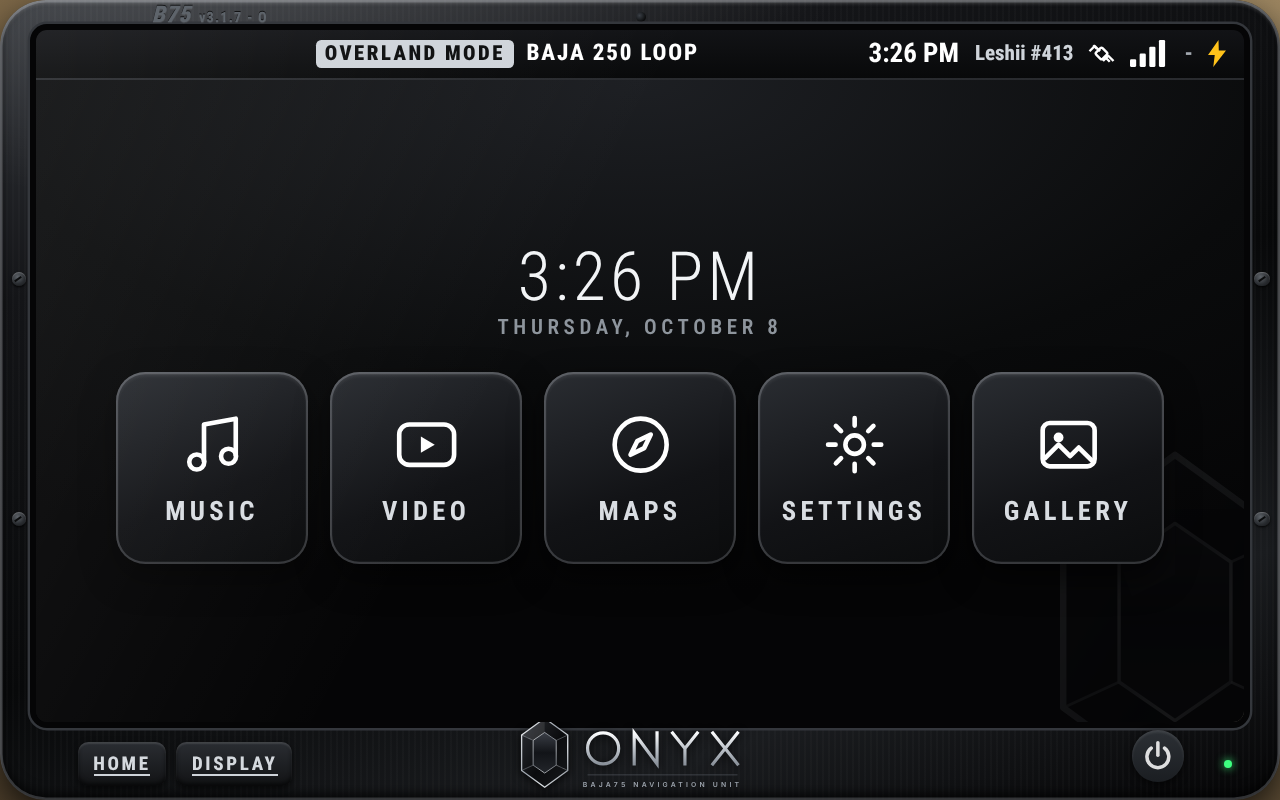
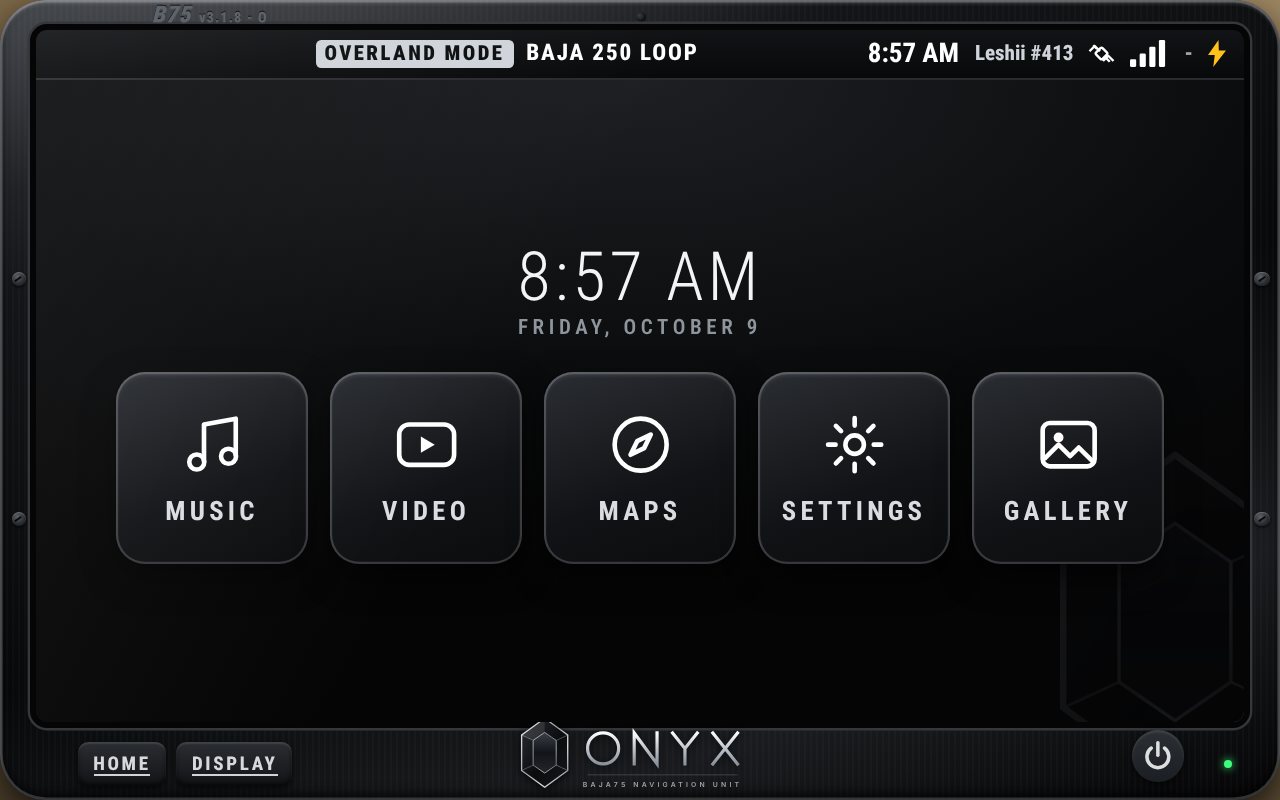
Baja75 Navigation Unit - Onyx Edition v3.1.8
Claude-Session: https://claude.ai/code/session_018ozQf74wNZmob9Gahvuwme

Changed region(s): [[0.4062, 0.3125, 0.5938, 0.4375], [0.6875, 0.0312, 0.75, 0.0938], [0.3438, 0.0625, 0.375, 0.0938]]

diff --git a/ui/modules/apps/Baja75-GPS/app.js b/ui/modules/apps/Baja75-GPS/app.js
@@ -17,7 +17,7 @@
   var APP_DIR = '/ui/modules/apps/Baja75-GPS/';
   var ICON_DIR = APP_DIR + 'Baja75-GPSicons/';
   var EV = 'TreadXLGPS.';
-  var VERSION = '3.1.7';
+  var VERSION = '3.1.8';
   // which build this is: 'full' (all four modes), 'chase', 'rally', 'track' (single-mode editions), 'common' or 'free'; dev/package.py sets it
   var EDITION = 'onyx';
   var EDITION_NAME = { full: '', chase: 'Chase Edition', rally: 'Rally Edition', track: 'Track Edition', common: 'Common Edition', free: 'Free Edition', onyx: 'Onyx Edition' }[EDITION] || '';
@@ -719,12 +719,16 @@
       }).join('') + '</div>',
       ' <button class="txl-pwr" data-act="power" data-tip="Restart System" aria-label="Restart System">' + G.pwr + '</button>',
       ' <div class="txl-led"></div>',
+      ' <div class="txl-bsod"><div class="e-h">BAJA75 NAVIGATION UNIT</div><div class="e-p">A fatal exception has occurred and the navigation system has been halted to prevent damage to your saved courses.</div>' +
+      '<div class="e-p e-code">STOP: 0x000000B7 (0x00000047, 0x4E415653, 0x00000000, 0x00000000)<br>NAV_SYSTEM_INTEGRITY_FAULT</div>' +
+      '<div class="e-p">* Restarting the unit or the game will not clear this error.<br>* If this keeps happening, contact Baja75 on Patreon.</div>' +
+      '<div class="e-p e-dump">Collecting error data\u2026 100% complete</div></div>',
       '</div>'
     ].join('');
     var q = function (sel) { return r.querySelector(sel); };
     this.el = {
       device: q('.txl-device'), screen: q('.txl-screen'), map: q('.txl-map'), hint: q('.txl-maphint'),
-      clock: q('.txl-clock'), mode: q('.txl-modetxt'), icons: q('.txl-icons'), trial: q('.txl-trial'), dead: q('.txl-dead'), nudge: q('.txl-nudge'), home: q('.txl-home'),
+      clock: q('.txl-clock'), mode: q('.txl-modetxt'), icons: q('.txl-icons'), trial: q('.txl-trial'), dead: q('.txl-dead'), bootSub: q('.b-sub'), nudge: q('.txl-nudge'), home: q('.txl-home'),
       deck: q('.txl-deck'), fields: q('.txl-fields'), alert: q('.txl-alert'), speedbox: q('.txl-speedbox'),
       limit: q('.txl-limit'), scale: q('.txl-scale'), orient: q('.orient'), center: q('[data-act="center"]'),
       chaseBtn: q('[data-act="chase"]'), recBtn: q('[data-act="recToggle"]'), toast: q('.txl-toast'), banner: q('.txl-banner'),
@@ -1276,6 +1280,7 @@
     return null;
   };
   P.act = function (a, el) {
+    if (this.root.getAttribute('data-bsod') === '1') return; // the error screen: nothing works
     if (isCommon() && COMMON_OFF[a]) return; // not in the Common Edition (open on a Baja75 server)
     if (isFree() && FREE_OFF[a]) { this.nudge(); return; }
     if (ONYX && ONYX_OFF[a]) return; // not in the Onyx Edition
@@ -2758,6 +2763,7 @@
     this.toast(s.display === 'video' ? 'VIDEO' : s.display === 'music' ? 'MUSIC' : s.display === 'gauges' ? 'GAUGES' : 'MAP', 'info');
   };
   P.hwButton = function (n) {
+    if (this.root.getAttribute('data-bsod') === '1') return;
     var b = this.root.querySelector('.txl-hwb[data-v="' + n + '"]');
     if (b) { b.classList.add('pressed'); setTimeout(function () { b.classList.remove('pressed'); }, 160); }
     if (isFree() && (n === 1 || n === 2)) this.nudge();
@@ -3279,8 +3285,13 @@
   P.licenseChanged = function () {
     var a = this.access || {}, l = a.lic || {}, self = this;
     this.trialEnd = typeof l.cd === 'number' && !a.server ? Date.now() + l.cd * 1000 : null;
+    this.trialLabel = l.trial ? 'Trial Time Remaining' : 'Key Time Remaining'; // v3.1.8: every key with an end shows its countdown
     this.adminEnd = typeof a.admin === 'number' ? Date.now() + a.admin * 1000 : null;
     this.root.setAttribute('data-dead', l.dead && !a.server && !a.admin ? '1' : '0');
+    this.root.setAttribute('data-bsod', l.bsod && !a.server && !a.admin ? '1' : '0'); // (the game script already leaves it off there)
+    if (this.root.getAttribute('data-bsod') === '1') { this.openSheet(null); try { this.videoStop(); } catch (_) { } try { if (this.audio && !this.audio.paused) this.audio.pause(); } catch (_) { } }
+    // the power-on screen: the player's name in place of the edition's word once a named key went in ('LESHII413 EDITION')
+    if (this.el.bootSub && !ONYX) this.el.bootSub.textContent = '10\u2033 OFF-ROAD NAVIGATOR' + (l.name ? ' \u00b7 ' + String(l.name).toUpperCase() + ' EDITION' : EDITION_NAME ? ' \u00b7 ' + EDITION_NAME.toUpperCase() : '');
     clearInterval(this.trialTimer);
     if (this.trialEnd || this.adminEnd) this.trialTimer = setInterval(function () { self.renderTrial(); if (self.sheet === 'menu' && self.menuTab === 'display') self.renderSheet(); }, 1000);
     this.renderTrial();
@@ -3292,7 +3303,7 @@
     if (left == null) { if (el.innerHTML) el.innerHTML = ''; el.classList.remove('show'); return; }
     var d = Math.floor(left / 86400), h = Math.floor(left % 86400 / 3600), m = Math.floor(left % 3600 / 60), sec = left % 60;
     var p2 = function (n) { return (n < 10 ? '0' : '') + n; };
-    this.setHtml('trial', el, '<span>Trial Time Remaining</span><b>' + d + ':' + p2(h) + ':' + p2(m) + ':' + p2(sec) + '</b>');
+    this.setHtml('trial', el, '<span>' + esc(this.trialLabel || 'Trial Time Remaining') + '</span><b>' + d + ':' + p2(h) + ':' + p2(m) + ':' + p2(sec) + '</b>');
     el.classList.add('show');
   };
   // Display: what's unlocked, and the key box
@@ -3309,7 +3320,8 @@
     else if (l.why === 'ended') st = 'Your key\u2019s time has run out: get the next key from Baja75 on Patreon';
     else st = 'Locked off the Baja75 servers' + (COMMON ? '' : ' (the password or a license key unlocks it)');
     return '<div class="txl-sec"><h3>License</h3><div class="txl-row"><div class="grow"><div class="t1">' + esc(st) + '</div><div class="t2">A personal-use unlocking license can be bought from Baja75 on Patreon</div></div>' +
-      (a.password ? btn('relock', 'LOCK') : '') + btn('keyOpen', 'ENTER KEY', 'blue') + '</div></div>';
+      (a.password ? btn('relock', 'LOCK') : '') + btn('keyOpen', 'ENTER KEY', 'blue') + '</div>' +
+      '<div class="txl-note">When your key runs out, contact <b>Baja75 on Patreon</b> for another key, with your proof of purchase, your trial access, or where you found the mod.</div></div>';
   };
   // the Free Edition: a short pop-up that other features need the product key
   P.nudge = function () {

diff --git a/ui/modules/apps/Baja75-GPS/app.css b/ui/modules/apps/Baja75-GPS/app.css
@@ -1016,6 +1016,14 @@
 .txl-dead .d-t { font-size: 2em; font-weight: 900; color: #ff4d42; letter-spacing: 0.06em; text-transform: uppercase; }
 .txl-dead .d-s { font-size: 1.2em; font-weight: 600; color: var(--txl-dim); max-width: 30em; }
 .txl[data-dead="1"] .txl-sheet { z-index: 75; }
+/* v3.1.8: the error screen (covers the whole unit, bezel included; nothing on it can be pressed) */
+.txl-bsod { display: none; position: absolute; inset: 0; z-index: 200; border-radius: inherit; flex-direction: column; justify-content: center; gap: 0.9em; padding: 6% 8%;
+  background: #0a2db0; color: #fff; font-family: "Lucida Console", "Courier New", monospace; font-size: 1.05em; line-height: 1.35; text-align: left; cursor: default; }
+.txl[data-bsod="1"] .txl-bsod { display: flex; }
+.txl[data-bsod="1"] .txl-boot { display: none; }
+.txl-bsod .e-h { align-self: center; background: #c8c8c8; color: #0a2db0; padding: 0 0.5em; font-weight: 700; letter-spacing: 0.04em; }
+.txl-bsod .e-code { font-weight: 700; }
+.txl-bsod .e-dump { opacity: 0.85; }
 
 /* ------------------------------------------------------------------ picture-in-picture (v3.1.2) */
 /* the video full screen, the map small in a corner (tap it: the full map) */

diff --git a/README.md b/README.md
@@ -189,7 +189,7 @@ A third HUD app, **Baja75 Navigation Unit - Pacenotes**, pops up the rally pacen
 
 ## Unlocking and licenses
 
-On a Baja75 or Leshii413 server every edition has every feature. Off the servers, enter a **password or license key** in MENU → Display → *License* (or when a locked part asks). A personal-use unlocking license for your own BeamNG can be bought from **Baja75 on Patreon**. If your license has a time limit, MENU → Display → *License* shows what's left. If the unit ever shows *This unit is disabled*, take a screenshot and send it to Baja75 Support.
+On a Baja75 or Leshii413 server every edition has every feature. Off the servers, enter a **password or license key** in MENU → Display → *License* (or when a locked part asks). A personal-use unlocking license for your own BeamNG can be bought from **Baja75 on Patreon**. If your license has a time limit, a countdown by the clock and MENU → Display → *License* show what's left. When your key runs out, contact **Baja75 on Patreon** for another key, with your proof of purchase, your trial access, or where you found the mod. If the unit ever shows *This unit is disabled*, take a screenshot and send it to Baja75 Support.
 
 The version and package letter sit next to **B75** on the case: **C** Chase, **R** Rally, **T** Track, **P** Public (Common), **F** Free; the full unit shows the version only.
 
